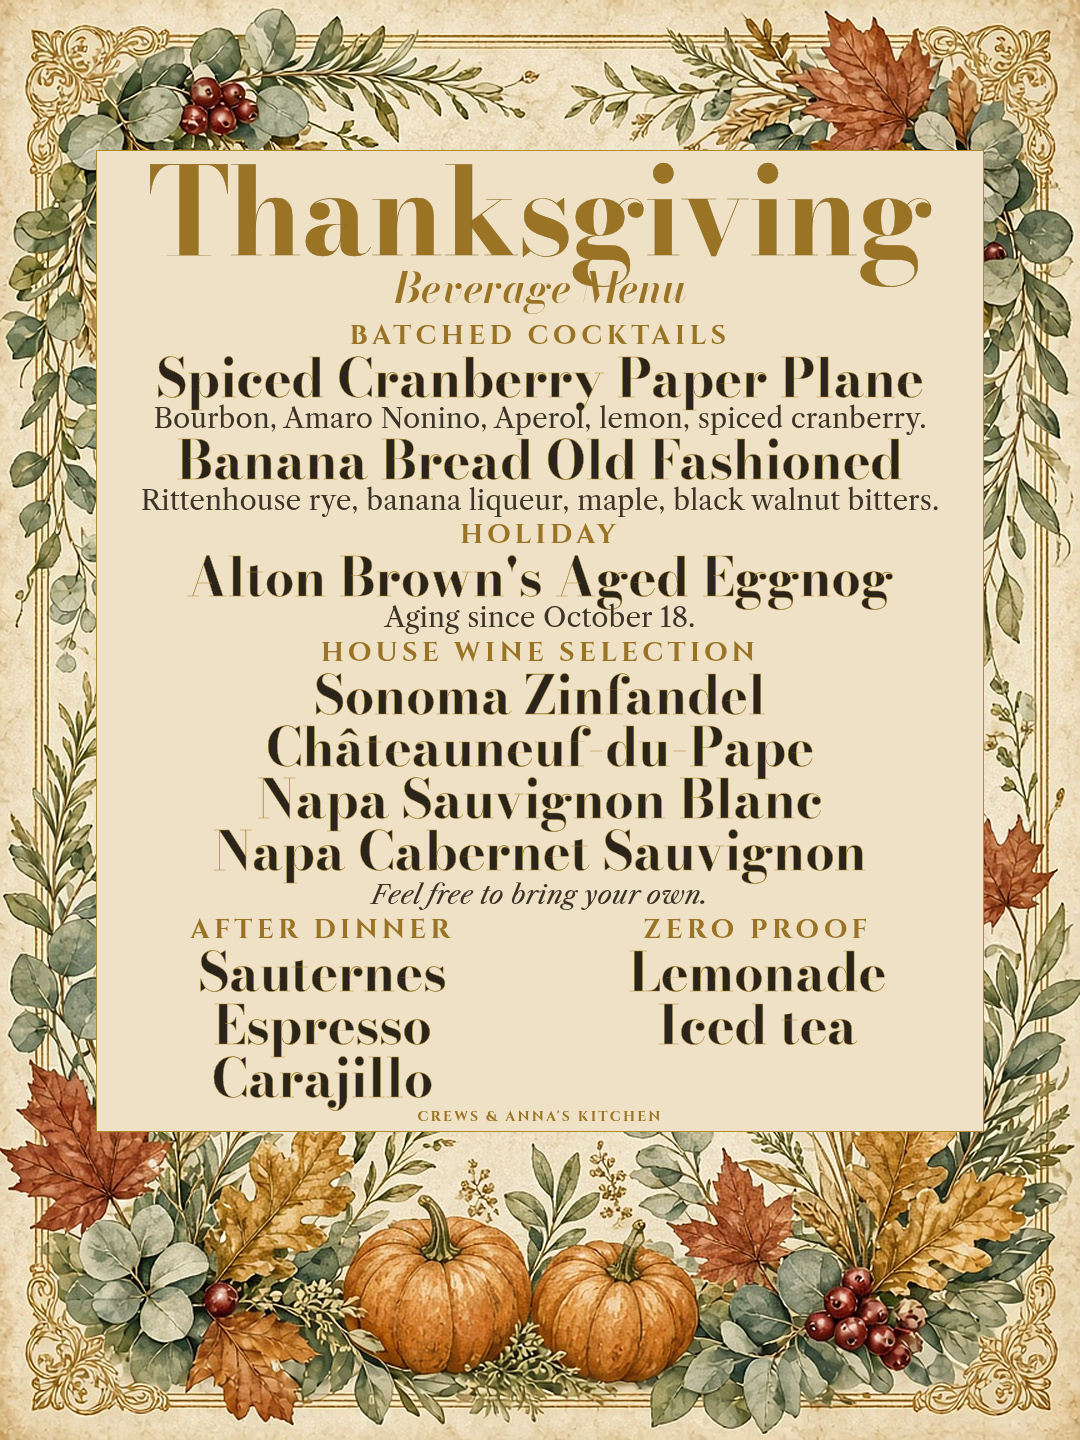
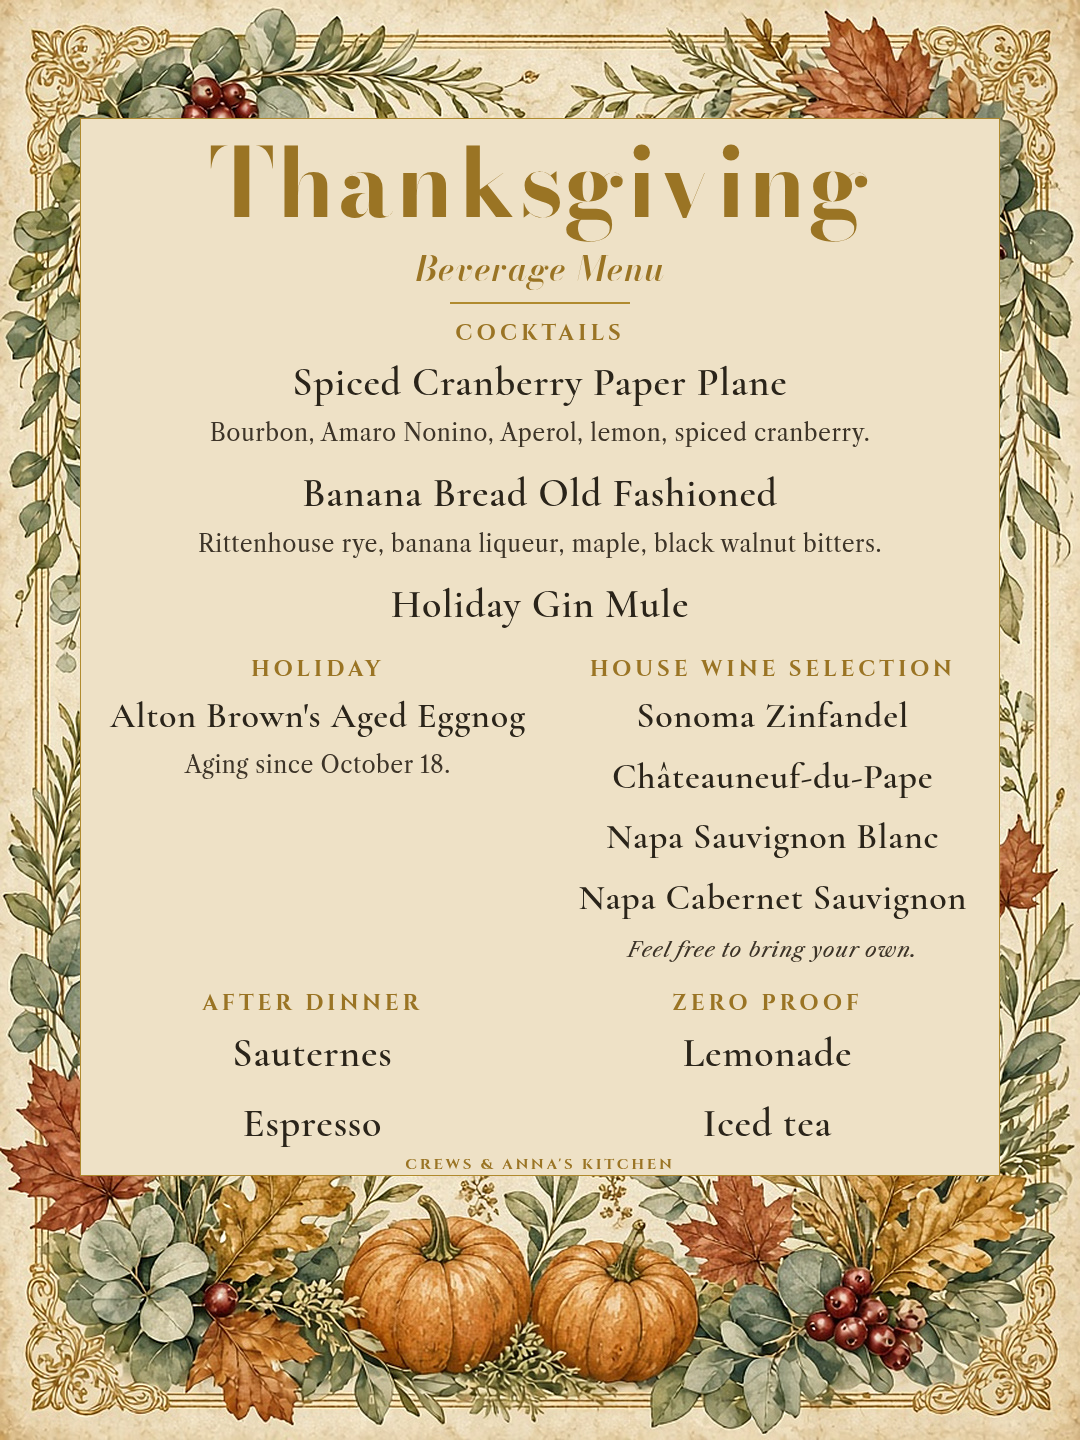
site: open up the Thanksgiving menu type and add the gin mule
Looser letter-spacing and line-height, a cream-panel share image that stays above the pumpkins, Holiday Gin Mule with no recipe link, and Carajillo removed.

Changed region(s): [[0.0611, 0.0625, 0.9472, 0.8438], [0.1222, 0.4688, 0.1528, 0.5]]

diff --git a/_system/scripts/site_render.py b/_system/scripts/site_render.py
@@ -855,21 +855,21 @@ THANKS_CSS = """@font-face{font-family:Display;src:url(/thanksgiving-drinks/font
 .thanks .card:after{bottom:0;height:28%;background:url(/thanksgiving-drinks/bg.jpg) bottom center / 100% auto no-repeat;-webkit-mask-image:linear-gradient(to top,#000 70%,transparent);mask-image:linear-gradient(to top,#000 70%,transparent)}
 .thanks .panel{position:relative;background:#EEE1C6;border:1.5px solid #B08A2E;padding:18px 18px 16px;text-align:center}
 .thanks .titles{text-align:center;padding:0}
-.thanks h1{font-family:Display,"Bodoni Moda",Georgia,serif;font-weight:700;font-optical-sizing:auto;font-size:clamp(56px,14vw,120px);line-height:.88;text-align:center;color:#9A7424;margin:0;letter-spacing:-0.01em;-webkit-text-stroke:.4px #8A6820}
-.thanks .sub{font-family:Display,"Bodoni Moda",Georgia,serif;font-style:italic;font-weight:600;font-optical-sizing:auto;font-size:clamp(26px,5.5vw,42px);line-height:1;text-align:center;color:#9A7424;margin:4px 0 0}
-.thanks .rule{width:160px;height:2px;border:0;margin:10px auto 8px;background:#B08A2E}
-.thanks .body{padding:0;display:flex;flex-direction:column;gap:10px}
-.thanks section{margin:0}
-.thanks .lbl{font-family:Text,serif;font-size:clamp(15px,3.4vw,27px);font-weight:700;letter-spacing:.16em;text-transform:uppercase;color:#9A7424;margin:0 0 2px}
-.thanks .item{margin:0 0 2px}
-.thanks .name{font-family:Display,"Bodoni Moda",Georgia,serif;font-weight:700;font-optical-sizing:auto;font-size:clamp(30px,6.8vw,52px);line-height:1.05;color:#2A241A;margin:0;-webkit-text-stroke:.4px #B08A2E}
+.thanks h1{font-family:Display,"Bodoni Moda",Georgia,serif;font-weight:700;font-optical-sizing:auto;font-size:clamp(56px,13vw,104px);line-height:1.18;text-align:center;color:#9A7424;margin:0;letter-spacing:0.02em;-webkit-text-stroke:.4px #8A6820}
+.thanks .sub{font-family:Display,"Bodoni Moda",Georgia,serif;font-style:italic;font-weight:600;font-optical-sizing:auto;font-size:clamp(26px,5.2vw,38px);line-height:1.3;text-align:center;color:#9A7424;margin:12px 0 0;letter-spacing:0.03em}
+.thanks .rule{width:160px;height:2px;border:0;margin:14px auto 0;background:#B08A2E}
+.thanks .body{padding:0;display:flex;flex-direction:column;gap:0}
+.thanks section{margin:0;padding-top:44px}.thanks .body>section:first-child{padding-top:24px}
+.thanks .lbl{font-family:Text,serif;font-size:clamp(15px,3.2vw,24px);font-weight:700;letter-spacing:.16em;text-transform:uppercase;color:#9A7424;margin:0 0 10px;line-height:1.3}
+.thanks .item{margin:0 0 26px}.thanks .item:last-child{margin-bottom:0}
+.thanks .name{font-family:Text,"Libre Caslon Text",Georgia,serif;font-weight:400;font-size:clamp(28px,6vw,46px);line-height:1.35;color:#2A241A;margin:0;letter-spacing:0.03em}
 .thanks a.name{color:#2A241A;text-decoration:underline;text-decoration-style:dotted;text-decoration-color:#9A7424;text-underline-offset:5px}
 .thanks a.name:hover,.thanks a.name:focus-visible{color:#9A7424}
-.thanks .note{font-family:Text,serif;font-size:clamp(17px,3.6vw,28px);line-height:1.2;color:#3D3428;margin:0}
-.thanks .wines .item{margin:0}
-.thanks .wines .name{font-size:clamp(30px,6.8vw,52px)}
-.thanks .welcome{font-family:Text,serif;font-size:clamp(16px,3.2vw,26px);font-style:italic;color:#3D3428;margin:4px 0 0}
-.thanks .split{display:grid;grid-template-columns:1fr 1fr;gap:4px 16px;margin:0}
+.thanks .note{font-family:Text,serif;font-size:clamp(17px,3.4vw,26px);line-height:1.35;color:#3D3428;margin:12px 0 0;letter-spacing:0.03em}
+.thanks .wines .item{margin:0 0 18px}.thanks .wines .item:last-of-type{margin-bottom:0}
+.thanks .wines{}.thanks .wines .name{font-size:clamp(26px,5.4vw,42px)}
+.thanks .welcome{font-family:Text,serif;font-size:clamp(16px,3.2vw,24px);font-style:italic;color:#3D3428;margin:16px 0 0;letter-spacing:0.03em;line-height:1.35}
+.thanks .split{display:grid;grid-template-columns:1fr 1fr;gap:4px 28px;margin:0;padding-top:44px}.thanks .split section{padding-top:0}
 .thanks .foot{margin:8px 0 0;font-family:Text,serif;font-size:12px;font-weight:700;letter-spacing:.16em;text-transform:uppercase;color:#9A7424}
 .thanks button.name{background:none;border:0;padding:0;margin:0 auto;width:auto;max-width:100%;display:block;text-align:center;cursor:pointer;color:#2A241A;text-decoration:underline;text-decoration-style:dotted;text-decoration-color:#9A7424;text-underline-offset:5px;font:inherit;letter-spacing:inherit}
 .thanks button.name:hover,.thanks button.name:focus-visible{color:#9A7424;outline:0}
@@ -942,7 +942,7 @@ def thanksgiving_drinks_page(out, src=None):
 <div class=rule aria-hidden=true></div>
 <div class=body>
 <section>
-<p class=lbl>Batched cocktails</p>
+<p class=lbl>Cocktails</p>
 <div class=item>
 <a class=name href="/r/freezer-door-spiced-cranberry-paper-plane">Spiced Cranberry Paper Plane</a>
 <p class=note>Bourbon, Amaro Nonino, Aperol, lemon, and spiced cranberry syrup.</p>
@@ -950,6 +950,9 @@ def thanksgiving_drinks_page(out, src=None):
 <div class=item>
 <a class=name href="/r/banana-bread-old-fashioned">Banana Bread Old Fashioned</a>
 <p class=note>Rittenhouse rye, banana liqueur, maple, and black walnut bitters.</p>
+</div>
+<div class=item>
+<p class=name>Holiday Gin Mule</p>
 </div>
 </section>
 <section>
@@ -972,7 +975,6 @@ def thanksgiving_drinks_page(out, src=None):
 <p class=lbl>After dinner</p>
 <div class=item><button type=button class="name wine" data-wine="Sauternes" aria-haspopup="dialog">Sauternes</button></div>
 <div class=item><p class=name>Espresso</p></div>
-<div class=item><p class=name>Carajillo</p></div>
 </section>
 <section>
 <p class=lbl>Zero proof</p>
